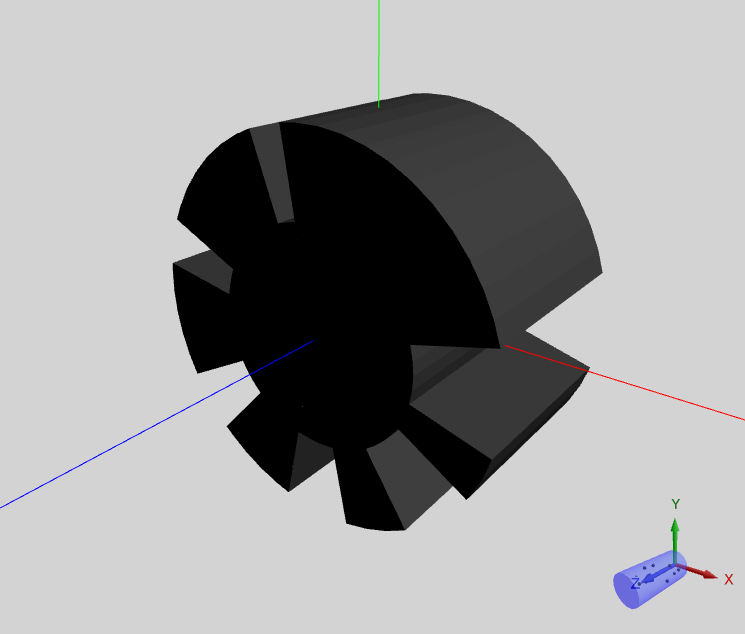
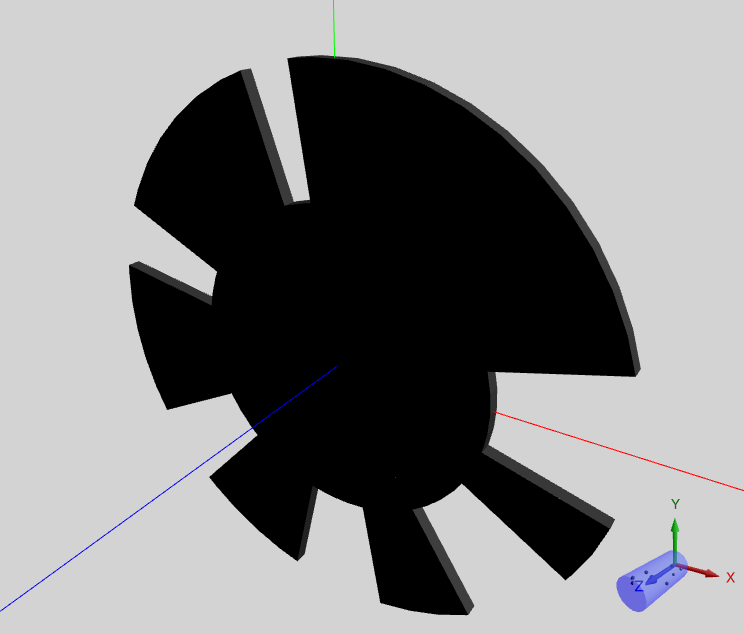
Add panel for chopper

diff --git a/nexusposter.tex b/nexusposter.tex
@@ -154,15 +154,14 @@
 \input{QtForPython}
 \end{custombox}
 
-\begin{tcolorbox}[enhanced,width=\linewidth,height=24cm,arc=5mm,
-       interior style={fill overzoom image*={}{chopperinstrumentview.png}}]
-\end{tcolorbox}
+\begin{custombox}{Component Shape}
+	\input{ComponentShape}
+\end{custombox}
 
-\vspace{-40pt}
 \begin{center}
-\color{white}\large\textbf{Figure:  }{A disk chopper mesh that has been loaded in the NeXus Constructor Instrument View} \\\vspace{25pt}
-\color{white}\fontsize{44}{1}\textbf{https://www.isis.stfc.ac.uk\\[5pt]https://europeanspallationsource.se}
+	\color{white}\fontsize{44}{1}\textbf{https://www.isis.stfc.ac.uk\\[5pt]https://europeanspallationsource.se}
 \end{center}
+
 \end{column}
 \end{columns}
 \end{frame}

diff --git a/ComponentShape.tex b/ComponentShape.tex
@@ -1,0 +1,7 @@
+The shape description for components can be imported from OFF or STL CAD formats, or inferred from other fields of the NeXus description.
+The details of a chopper disc diameter and slit positions is sufficient for the NeXus Constructor to render the shape.
+
+\begin{figure}
+	\includegraphics[width=0.6\linewidth]{chopperinstrumentview.png}
+	\caption{A disk chopper rendered in the NeXus Constructor Instrument View.}
+\end{figure}
